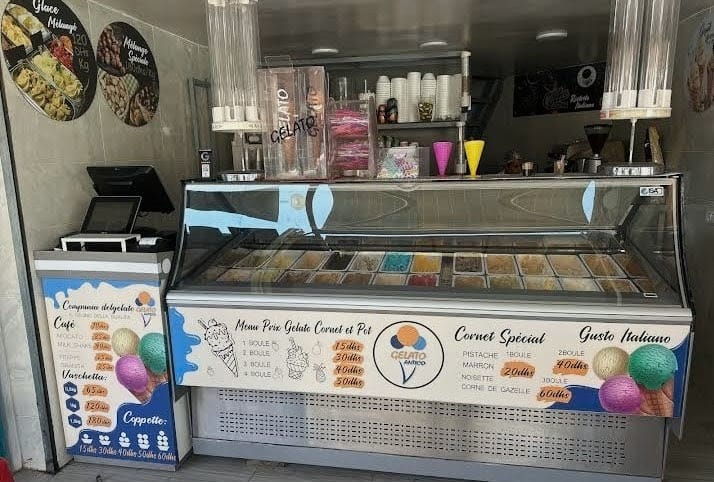
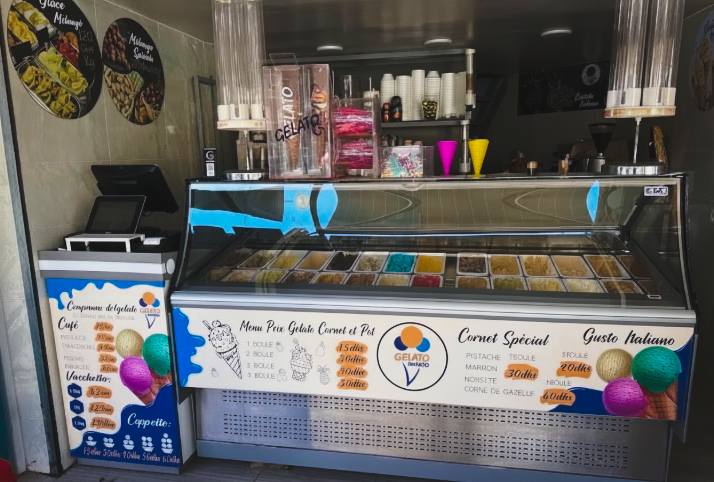
ajouter photos

diff --git a/Glacier.html b/Glacier.html
@@ -23,7 +23,7 @@
 <meta property="og:url" content="https://www.gelatoantico.ma/Glacier.html">
 <meta property="og:title" content="Gelato Antico — Best Artisan Gelato in Marrakech" id="og-title">
 <meta property="og:description" content="Hand-crafted Italian gelato made fresh daily in the heart of Marrakech. Premium ingredients, authentic recipes, unforgettable taste." id="og-desc">
-<meta property="og:image" content="assets/ShopOverview.jpeg">
+<meta property="og:image" content="assets/img/ShopOverview.jpeg">
 <meta property="og:image:alt" content="Gelato Antico shop in Marrakech">
 <meta property="og:locale" content="en_US" id="og-locale">
 <meta property="og:locale:alternate" content="fr_FR">
@@ -33,14 +33,14 @@
 <meta name="twitter:card" content="summary_large_image">
 <meta name="twitter:title" content="Gelato Antico — Best Artisan Gelato in Marrakech" id="tw-title">
 <meta name="twitter:description" content="Hand-crafted Italian gelato made fresh daily in the heart of Marrakech." id="tw-desc">
-<meta name="twitter:image" content="assets/ShopOverview.jpeg">
+<meta name="twitter:image" content="assets/img/ShopOverview.jpeg">
 <meta name="twitter:image:alt" content="Gelato Antico shop in Marrakech">
 
 <!-- Theme color -->
 <meta name="theme-color" content="#FAF7F2">
 
 <!-- Favicon -->
-<link rel="icon" type="image/png" href="assets/logo.png">
+<link rel="icon" type="image/png" href="assets/img/logo.png">
 
 <!-- Fonts -->
 <link rel="preconnect" href="https://fonts.googleapis.com">
@@ -54,8 +54,8 @@
   "@type": "IceCreamShop",
   "name": "Gelato Antico",
   "alternateName": "Gelato Antico Marrakech",
-  "image": "https://www.gelatoantico.ma/assets/ShopOverview.jpeg",
-  "logo": "https://www.gelatoantico.ma/assets/logo.png",
+  "image": "https://www.gelatoantico.ma/assets/img/ShopOverview.jpeg",
+  "logo": "https://www.gelatoantico.ma/assets/img/logo.png",
   "description": "Hand-crafted Italian gelato made fresh daily in the heart of Marrakech. Premium ingredients, authentic recipes, signature flavors including saffron, avocado, amlou and more.",
   "address": {
     "@type": "PostalAddress",
@@ -649,7 +649,7 @@
 
 <header id="header">
   <div class="header-inner">
-    <a href="#top" class="logo" aria-label="Gelato Antico — home"><img src="assets/logo.png" alt="Gelato Antico logo" width="40" height="40">Gelato <span>Antico</span></a>
+    <a href="#top" class="logo" aria-label="Gelato Antico — home"><img src="assets/img/logo.png" alt="Gelato Antico logo" width="40" height="40">Gelato <span>Antico</span></a>
     <nav id="nav" aria-label="Primary navigation">
       <a href="#about" data-i18n="nav_story">Our Story</a>
       <a href="#flavors" data-i18n="nav_flavors">Flavors</a>
@@ -679,7 +679,7 @@
 <main id="main">
 <section class="hero" id="top" aria-label="Hero">
   <div class="hero-bg">
-    <img src="https://images.unsplash.com/photo-1557142046-c704a3adf364?w=1920&q=85&auto=format&fit=crop" alt="Artisan Italian gelato at Gelato Antico Marrakech" fetchpriority="high">
+    <img src="assets/img/ShopOverview.jpeg" alt="Artisan Italian gelato at Gelato Antico Marrakech" fetchpriority="high">
   </div>
   <div class="hero-content container">
     <div class="hero-tag" data-i18n="hero_tag">Marrakech, Morocco</div>
@@ -720,7 +720,7 @@
 <section class="about" id="about" aria-label="About">
   <div class="container about-grid">
     <div class="about-image reveal">
-      <img src="assets/OwnerHoldingIceCream.jpeg" alt="Gelato Antico owner holding freshly made gelato" loading="lazy" width="600" height="750">
+      <img src="assets/img/OwnerHoldingIceCream.jpeg" alt="Gelato Antico owner holding freshly made gelato" loading="lazy" width="600" height="750">
       <div class="about-badge" data-i18n="about_badge">Since 2020 · Marrakech</div>
     </div>
     <div class="about-text">
@@ -746,8 +746,8 @@
     </div>
   </div>
   <div class="about-video container reveal">
-    <video autoplay muted loop playsinline preload="none" poster="assets/OwnerHoldingIceCream.jpeg" aria-label="Gelato Antico crafting gelato">
-      <source src="assets/ce glacier.mp4" type="video/mp4">
+    <video autoplay muted loop playsinline preload="none" poster="assets/img/OwnerHoldingIceCream.jpeg" aria-label="Gelato Antico crafting gelato">
+      <source src="assets/videos/ce-glacier.mp4" type="video/mp4">
     </video>
   </div>
 </section>
@@ -762,7 +762,7 @@
     <div class="flavor-grid">
       <div class="flavor-card reveal">
         <div class="flavor-img">
-          <img src="assets/GlaceFLavor1.jpg" alt="Avocado gelato at Gelato Antico" loading="lazy" width="400" height="300">
+          <img src="assets/img/GlaceFLavor1.jpg" alt="Avocado gelato at Gelato Antico" loading="lazy" width="400" height="300">
         </div>
         <div class="flavor-info">
           <div class="flavor-tag" data-i18n="fl1_tag">Creamy · Unexpected</div>
@@ -772,7 +772,7 @@
       </div>
       <div class="flavor-card reveal reveal-delay-1">
         <div class="flavor-img">
-          <img src="assets/allflavors.jpg" alt="Saffron gelato at Gelato Antico" loading="lazy" width="400" height="300">
+          <img src="assets/img/allflavors.jpg" alt="Saffron gelato at Gelato Antico" loading="lazy" width="400" height="300">
         </div>
         <div class="flavor-info">
           <div class="flavor-tag" data-i18n="fl2_tag">Signature</div>
@@ -782,7 +782,7 @@
       </div>
       <div class="flavor-card reveal reveal-delay-2">
         <div class="flavor-img">
-          <img src="assets/3flavorsin3.jpg" alt="Gazelle Horn gelato at Gelato Antico" loading="lazy" width="400" height="300">
+          <img src="assets/img/3flavorsin3.jpg" alt="Gazelle Horn gelato at Gelato Antico" loading="lazy" width="400" height="300">
         </div>
         <div class="flavor-info">
           <div class="flavor-tag" data-i18n="fl3_tag">Moroccan Classic</div>
@@ -792,7 +792,7 @@
       </div>
       <div class="flavor-card reveal">
         <div class="flavor-img">
-          <img src="assets/glaces.jpg" alt="Amlou gelato at Gelato Antico" loading="lazy" width="400" height="300">
+          <img src="assets/img/glaces.jpg" alt="Amlou gelato at Gelato Antico" loading="lazy" width="400" height="300">
         </div>
         <div class="flavor-info">
           <div class="flavor-tag" data-i18n="fl4_tag">House Special</div>
@@ -802,7 +802,7 @@
       </div>
       <div class="flavor-card reveal reveal-delay-1">
         <div class="flavor-img">
-          <img src="assets/BigIcecream.jpg" alt="Mango gelato at Gelato Antico" loading="lazy" width="400" height="300">
+          <img src="assets/img/BigIcecream.jpg" alt="Mango gelato at Gelato Antico" loading="lazy" width="400" height="300">
         </div>
         <div class="flavor-info">
           <div class="flavor-tag" data-i18n="fl5_tag">Best Seller</div>
@@ -812,7 +812,7 @@
       </div>
       <div class="flavor-card reveal reveal-delay-2">
         <div class="flavor-img">
-          <img src="assets/CofeeNormal.jpg" alt="Affogato at Gelato Antico" loading="lazy" width="400" height="300">
+          <img src="assets/img/CofeeNormal.jpg" alt="Affogato at Gelato Antico" loading="lazy" width="400" height="300">
         </div>
         <div class="flavor-info">
           <div class="flavor-tag" data-i18n="fl6_tag">Must Try</div>
@@ -832,19 +832,19 @@
     </div>
     <div class="gallery-grid">
       <div class="gallery-item g1 reveal">
-        <img src="assets/GlaceOfDragonFruit.jpg" alt="Dragon fruit gelato scoop at Gelato Antico" loading="lazy" width="500" height="667">
+        <img src="assets/img/GlaceOfDragonFruit.jpg" alt="Dragon fruit gelato scoop at Gelato Antico" loading="lazy" width="500" height="667">
         <div class="gallery-overlay"><span data-i18n="gal1">The Perfect Scoop</span></div>
       </div>
       <div class="gallery-item g2 reveal reveal-delay-1">
-        <img src="assets/AllIcecream.jpg" alt="Assorted gelato flavors on display" loading="lazy" width="500" height="375">
+        <img src="assets/img/AllIcecream.jpg" alt="Assorted gelato flavors on display" loading="lazy" width="500" height="375">
         <div class="gallery-overlay"><span data-i18n="gal2">Artisan Display</span></div>
       </div>
       <div class="gallery-item g3 reveal reveal-delay-2">
-        <img src="assets/Shopinside.jpeg" alt="Inside Gelato Antico shop" loading="lazy" width="500" height="375">
+        <img src="assets/img/Shopinside.jpeg" alt="Inside Gelato Antico shop" loading="lazy" width="500" height="375">
         <div class="gallery-overlay"><span data-i18n="gal3">Crafted With Care</span></div>
       </div>
       <div class="gallery-item g4 reveal reveal-delay-1">
-        <img src="assets/ShopOverview.jpeg" alt="Gelato Antico shop exterior and entrance" loading="lazy" width="800" height="500">
+        <img src="assets/img/ShopOverview.jpeg" alt="Gelato Antico shop exterior and entrance" loading="lazy" width="800" height="500">
         <div class="gallery-overlay"><span data-i18n="gal4">Welcome In</span></div>
       </div>
     </div>
@@ -903,7 +903,7 @@
   <div class="container">
     <div class="experience-grid">
       <div class="experience-img reveal">
-        <img src="assets/CostumerReaction.jpeg" alt="Guest enjoying gelato at Gelato Antico Marrakech" loading="lazy" width="625" height="500">
+        <img src="assets/img/CostumerReaction.jpeg" alt="Guest enjoying gelato at Gelato Antico Marrakech" loading="lazy" width="625" height="500">
       </div>
       <div class="experience-text">
         <div class="section-tag reveal" data-i18n="exp_tag">The Experience</div>
@@ -984,7 +984,7 @@
   <div class="container">
     <div class="foot-grid">
       <div class="foot-brand">
-        <div class="logo" style="color:var(--bg);"><img src="assets/logo.png" alt="Gelato Antico logo" width="40" height="40">Gelato <span style="color:var(--accent)">Antico</span></div>
+        <div class="logo" style="color:var(--bg);"><img src="assets/img/logo.png" alt="Gelato Antico logo" width="40" height="40">Gelato <span style="color:var(--accent)">Antico</span></div>
         <p data-i18n="foot_desc">Hand-crafted Italian gelato, made fresh daily in Marrakech.</p>
         <div class="foot-social">
           <a href="#" aria-label="Instagram">